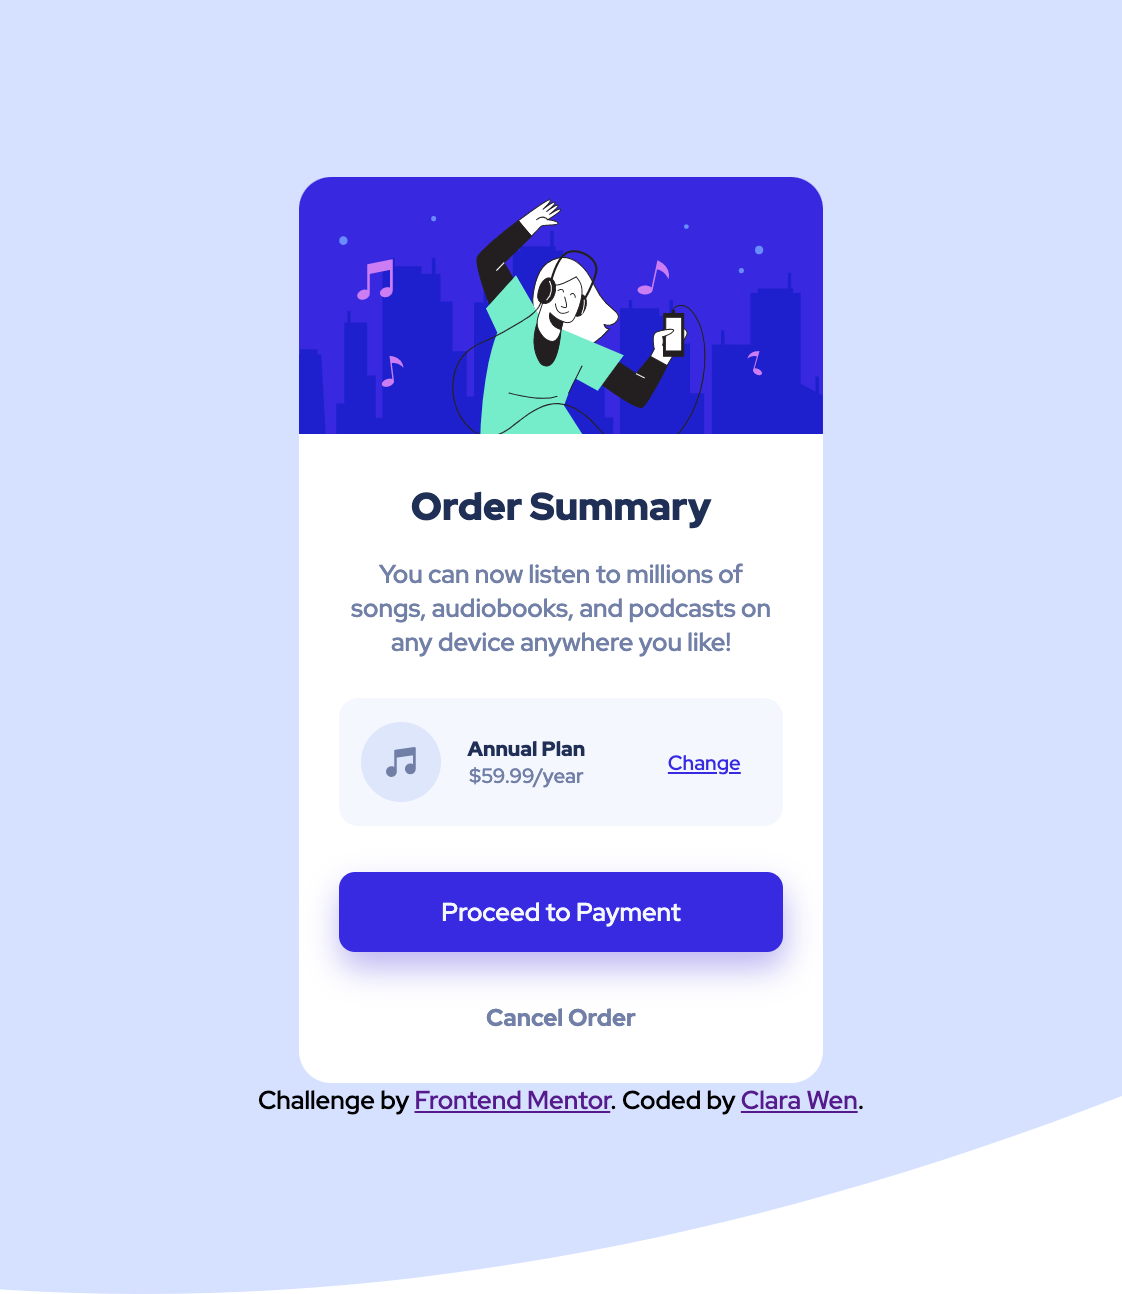
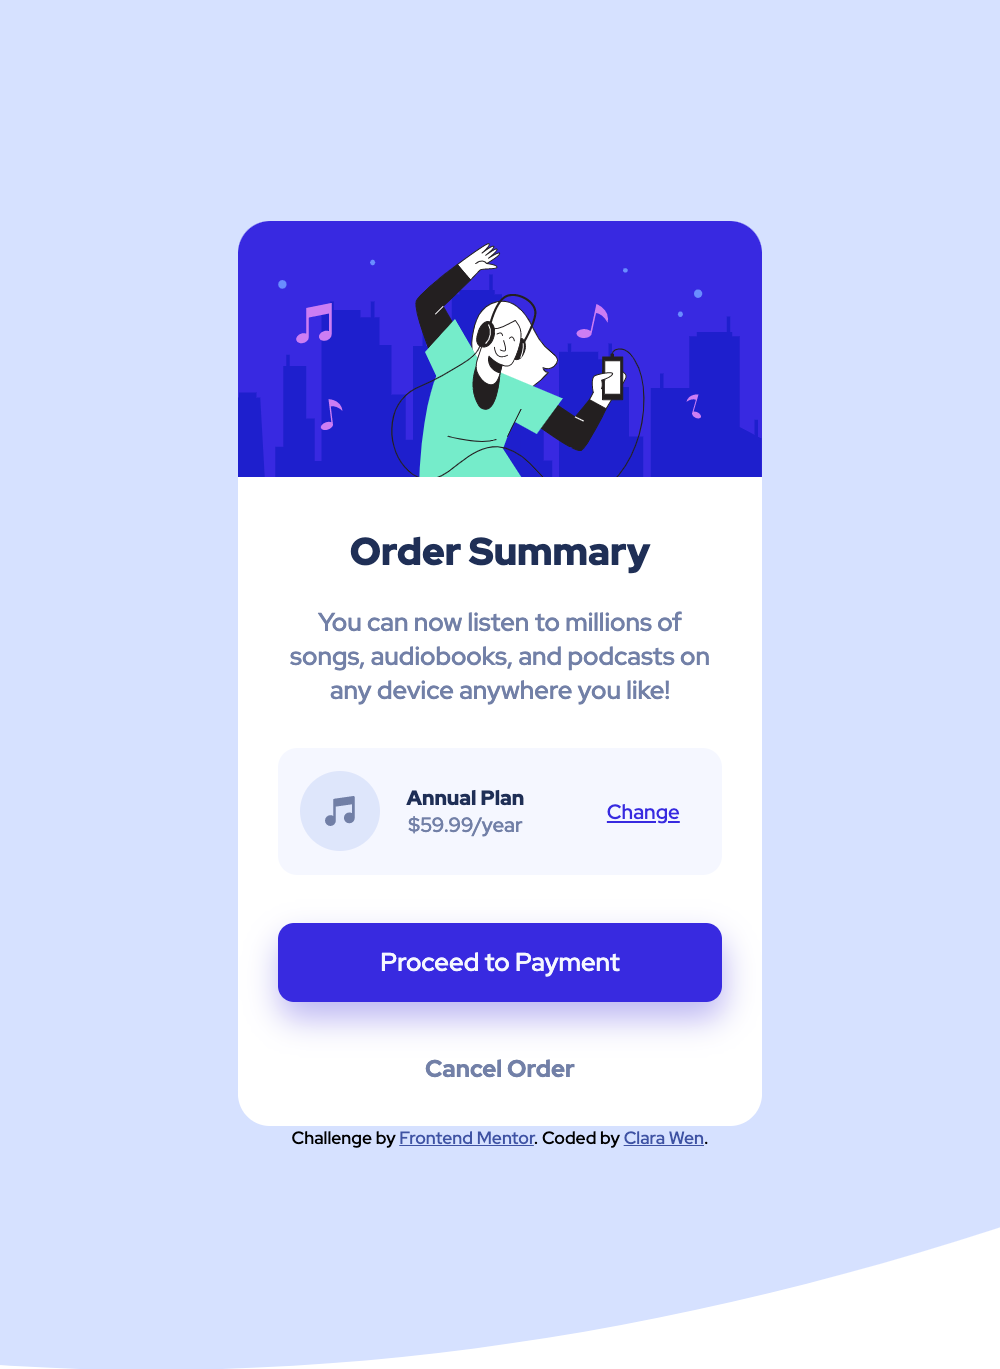
minor style editing

diff --git a/orderSummaryComponent/index.html b/orderSummaryComponent/index.html
@@ -12,19 +12,6 @@
         rel="stylesheet">
     <link rel="icon" type="image/png" sizes="32x32" href="./images/favicon-32x32.png">
 
-
-    <!-- Feel free to remove these styles or customise in your own stylesheet 👍 -->
-    <style>
-        .attribution {
-            font-size: 11px;
-            text-align: center;
-        }
-
-        .attribution a {
-            color: hsl(228, 45%, 44%);
-        }
-    </style>
-
 </head>
 
 <body>

diff --git a/orderSummaryComponent/styles.css b/orderSummaryComponent/styles.css
@@ -218,6 +218,14 @@ main {
     color: var(--Dark-blue);
 }
 
+footer {
+    font-size: 11px;
+    text-align: center;
+}
+
+footer a {
+    color: hsl(228, 45%, 44%);
+}
 
 @media only screen and (min-width: 767px) {
     body {
